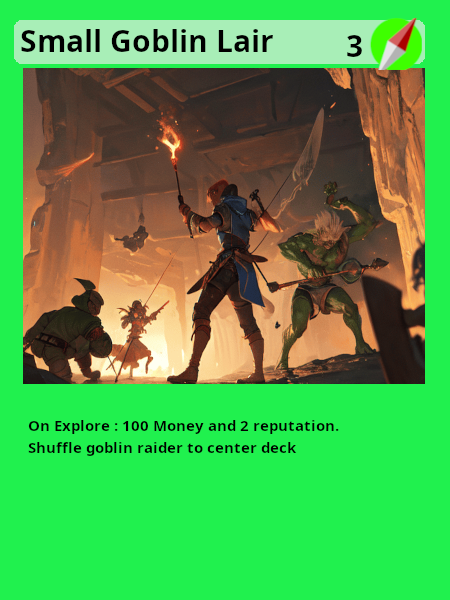
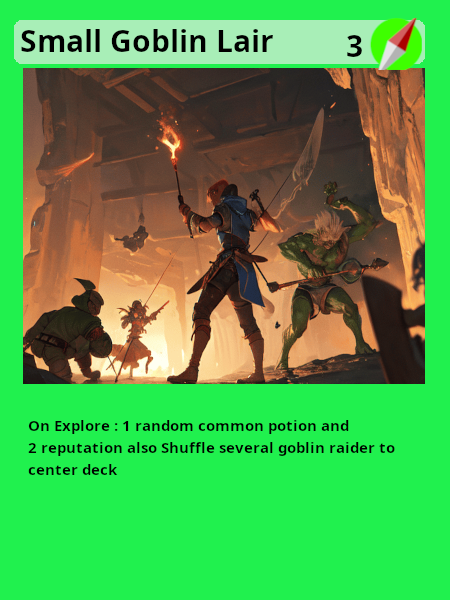
add item generation function
- add function in gamestate

- change the small lair reward into generate random common potion

Changed region(s): [[0.0622, 0.69, 0.8711, 0.81]]

diff --git a/internal/cards/item/item_factory.go b/internal/cards/item/item_factory.go
@@ -1,0 +1,70 @@
+package item
+
+import (
+	"fmt"
+	"github/kharism/GuildSim_go/internal/cards"
+	"math/rand"
+)
+
+func CreatePotion(name string, state cards.AbstractGamestate) cards.Card {
+	switch {
+	case name == "Combat Potion":
+		h := NewCombatPotion(state)
+		return &h
+	case name == "Explore Potion":
+		h := NewExplorePotion(state)
+		return &h
+	case name == "Healing Potion":
+		h := NewHealingPotion(state)
+		return &h
+	default:
+		h := NewHealingPotion(state)
+		return &h
+	}
+	return nil
+}
+func CreateRelicRandom(state cards.AbstractGamestate, rarity int) cards.Card {
+	commonList := []string{}
+	rareList := []string{"CombatGauntlet", "ExplorerBoots", "Regen Amulet"}
+	allList := []string{}
+	if (rarity & cards.RARITY_COMMON) != 0 {
+		allList = append(allList, commonList...)
+	}
+	if (rarity & cards.RARITY_RARE) != 0 {
+		allList = append(allList, rareList...)
+	}
+	picked := rand.Int() % len(allList)
+	newPotion := CreatePotion(allList[picked], state)
+	return newPotion
+}
+
+func CreateRelic(name string, state cards.AbstractGamestate) cards.Card {
+	switch name {
+	case "CombatGauntlet":
+		h := NewCombatGauntlet(state)
+		return &h
+	case "ExplorerBoots":
+		h := NewExplorerBoots(state)
+		return &h
+	case "Regen Amulet":
+		h := NewRegenAmulet(state)
+		return &h
+	}
+	return nil
+}
+func CreatePotionRandom(state cards.AbstractGamestate, rarity int) cards.Card {
+	commonList := []string{"Explore Potion", "Combat Potion", "Healing Potion"}
+	rareList := []string{"RefreshPotion", "Recursion Potion"}
+	allList := []string{}
+	if (rarity & cards.RARITY_COMMON) != 0 {
+		allList = append(allList, commonList...)
+	}
+	if (rarity & cards.RARITY_RARE) != 0 {
+		allList = append(allList, rareList...)
+	}
+	picked := rand.Int() % len(allList)
+	fmt.Println("ALLLIST", allList, allList[picked])
+	newPotion := CreatePotion(allList[picked], state)
+	fmt.Println(newPotion)
+	return newPotion
+}

diff --git a/ui/main.go b/ui/main.go
@@ -153,11 +153,11 @@ func (g *Game) ChangeState(stateName string) {
 		mm.defaultGamestate = defaultGamestate.(*gamestate.DefaultGamestate)
 		mm.defaultGamestate.SetCardPicker(mm.cardPicker)
 		mm.defaultGamestate.TakeDamage(40)
-		rookieMage := cards.NewLichMageMonster(mm.defaultGamestate)
+		// rookieMage := cards.NewLichMageMonster(mm.defaultGamestate)
 		// heal := item.NewHealingPotion(defaultGamestate)
-		ll := append(mm.defaultGamestate.CardsInCenterDeck.List()[:3], &rookieMage)
-		rest := mm.defaultGamestate.CardsInCenterDeck.List()[4:]
-		mm.defaultGamestate.CardsInCenterDeck.SetList(append(ll, rest...))
+		// ll := append(mm.defaultGamestate.CardsInCenterDeck.List()[:3], &rookieMage)
+		// rest := mm.defaultGamestate.CardsInCenterDeck.List()[4:]
+		// mm.defaultGamestate.CardsInCenterDeck.SetList(append(ll, rest...))
 		// mm.defaultGamestate.ItemCards = append(mm.defaultGamestate.ItemCards, &heal)
 		// mm.defaultGamestate.CardsInHand = append(mm.defaultGamestate.CardsInHand, &rookieMage)
 		// rookieCard := NewEbitenCardFromCard(&rookieMage)

diff --git a/internal/factory/card_factory.go b/internal/factory/card_factory.go
@@ -1,10 +1,15 @@
 package factory
 
-import "github/kharism/GuildSim_go/internal/cards"
+import (
+	"github/kharism/GuildSim_go/internal/cards"
+	"github/kharism/GuildSim_go/internal/cards/item"
+)
 
 const SET_STARTER_DECK = "starter_deck"
 
 const SET_CENTER_DECK_1 = "center_deck"
+
+const SET_POTION_COMMON_RANDOM = "POT_COMMON_RAND"
 
 // generate list of cards. use public constant to pick which set of cards to generate
 // for future devs: add in more functions to create expansion set that just need to be slapped in without adding triggers/eventListeners
@@ -13,6 +18,8 @@ func CardFactory(setname string, gamestate cards.AbstractGamestate) []cards.Card
 	switch setname {
 	case SET_STARTER_DECK:
 		return createStarterDeck(gamestate)
+	case SET_POTION_COMMON_RANDOM:
+		item.CreatePotionRandom(gamestate, cards.RARITY_COMMON)
 	case SET_CENTER_DECK_1:
 	default:
 		return createStarterCenterDeck(gamestate)

diff --git a/internal/gamestate/default_gamestate.go b/internal/gamestate/default_gamestate.go
@@ -3,6 +3,7 @@ package gamestate
 import (
 	"fmt"
 	"github/kharism/GuildSim_go/internal/cards"
+	"github/kharism/GuildSim_go/internal/cards/item"
 	"github/kharism/GuildSim_go/internal/observer"
 )
 
@@ -164,11 +165,18 @@ func (d *DefaultGamestate) RemoveItem(c cards.Card) {
 		d.RemoveItemIndex(idx)
 	}
 }
+func (d *DefaultGamestate) GenerateRandomPotion(rarity int) cards.Card {
+	return item.CreatePotionRandom(d, rarity)
+}
+func (d *DefaultGamestate) GenerateRandomRelic(rarity int) cards.Card {
+	return item.CreateRelicRandom(d, rarity)
+}
 func (d *DefaultGamestate) RemoveItemIndex(i int) {
 	h := append(d.ItemCards[:i], d.ItemCards[i+1:]...)
 	d.ItemCards = h
 }
 func (d *DefaultGamestate) AddItem(c cards.Card) {
+	fmt.Print(c.GetName())
 	d.ItemCards = append(d.ItemCards, c)
 	c.OnAcquire()
 }

diff --git a/internal/cards/cards_test/deck_test.go b/internal/cards/cards_test/deck_test.go
@@ -3,6 +3,7 @@ package cards_test
 import (
 	"fmt"
 	"github/kharism/GuildSim_go/internal/cards"
+	"github/kharism/GuildSim_go/internal/cards/item"
 	"github/kharism/GuildSim_go/internal/observer"
 	"math/rand"
 	"testing"
@@ -181,6 +182,12 @@ func (d *DummyGamestate) TakeDamage(dmg int) {
 		}
 	}
 
+}
+func (d *DummyGamestate) GenerateRandomPotion(rarity int) cards.Card {
+	return item.CreatePotionRandom(d, rarity)
+}
+func (d *DummyGamestate) GenerateRandomRelic(rarity int) cards.Card {
+	return item.CreateRelicRandom(d, rarity)
 }
 func (d *DummyGamestate) GetCardPicker() cards.AbstractCardPicker {
 	return d.cardPiker

diff --git a/internal/cards/gamestate.go b/internal/cards/gamestate.go
@@ -43,6 +43,11 @@ const (
 	DISCARD_SOURCE_NAN      = "nan"
 	DISCARD_SOURCE_DISCARD  = "discard"
 )
+const (
+	RARITY_COMMON = 0b001
+	RARITY_RARE   = 0b010
+	RARITY_SRARE  = 0b100
+)
 
 type AbstractGamestate interface {
 	GetPlayedCards() []Card
@@ -59,6 +64,10 @@ type AbstractGamestate interface {
 	// otherwise remove the card accordingly
 	PlayCard(c Card)
 	Explore(c Card)
+
+	// rewardGeneratorFunctions
+	GenerateRandomPotion(rarity int) Card
+	GenerateRandomRelic(rarity int) Card
 
 	// item related stuff
 	ListItems() []Card

diff --git a/internal/cards/gobin_small_lair_area.go b/internal/cards/gobin_small_lair_area.go
@@ -25,7 +25,9 @@ func (ed *GoblinSmallLairArea) GetCost() Cost {
 // when played on hand, to this
 func (ed *GoblinSmallLairArea) OnPlay() {}
 func (ed *GoblinSmallLairArea) OnExplored() {
-	ed.gamestate.AddResource(RESOURCE_NAME_MONEY, 100)
+	// ed.gamestate.AddResource(RESOURCE_NAME_MONEY, 100)
+	newPotion := ed.gamestate.GenerateRandomPotion(RARITY_COMMON)
+	ed.gamestate.AddItem(newPotion)
 	ed.gamestate.AddResource(RESOURCE_NAME_REPUTATION, 2)
 	wolfRaiders := []Card{}
 	for i := 0; i < 4; i++ {

diff --git a/internal/cards/item/regen_amulet.go b/internal/cards/item/regen_amulet.go
@@ -15,7 +15,7 @@ func (h *RegenAmulet) Dispose(source string) {
 	h.state.BanishCard(h, source)
 }
 func (h *RegenAmulet) GetName() string {
-	return "Healing Potion"
+	return "Regen Amulet"
 }
 func (h *RegenAmulet) GetDescription() string {
 	return "Heal 1 HP each turn"
